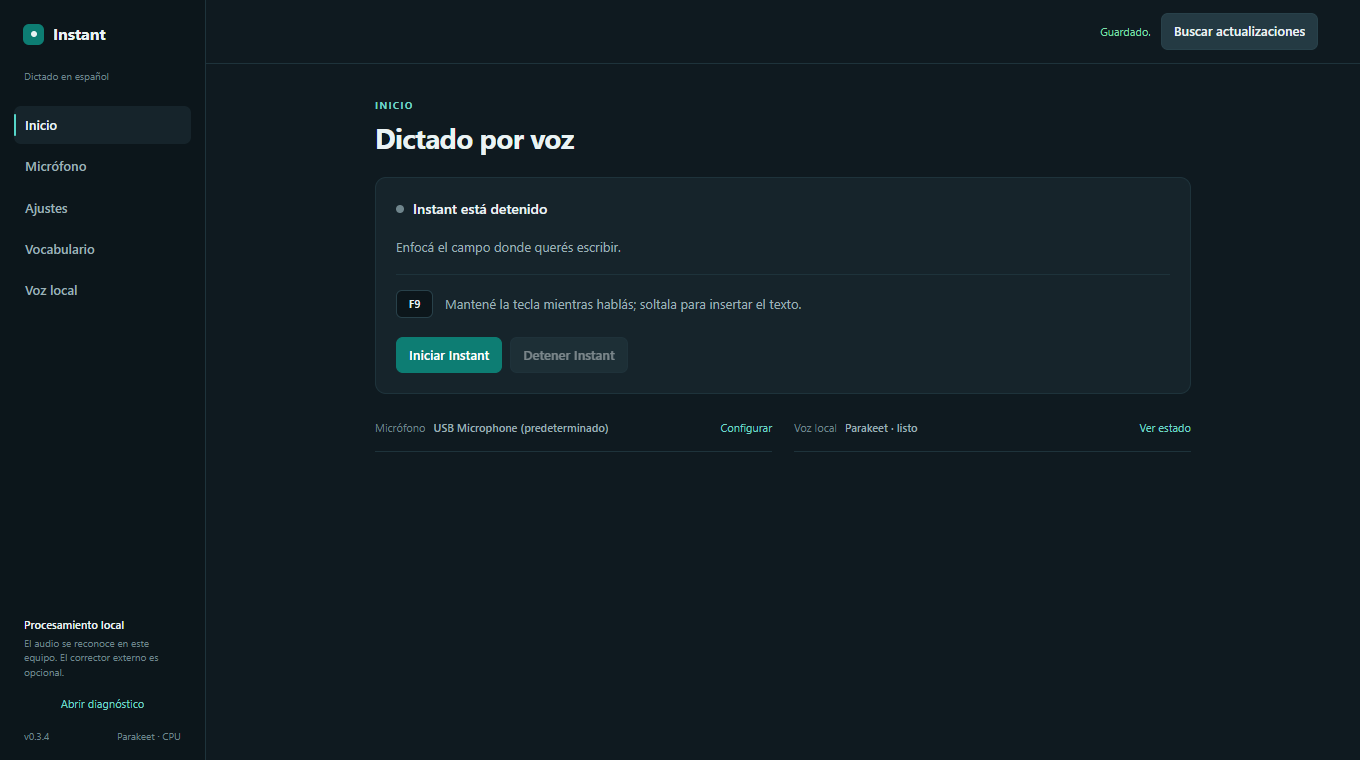
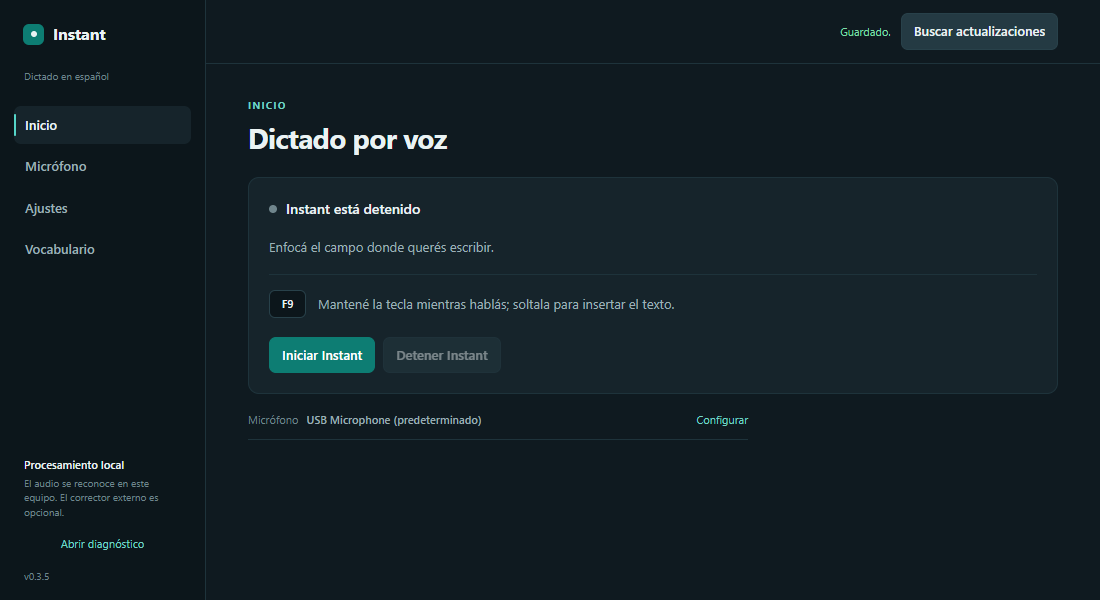
release: compact panel and remove local voice view

diff --git a/dictado/src/instant_app/web/panel.html b/dictado/src/instant_app/web/panel.html
@@ -120,8 +120,8 @@ h3 { margin: 0; font-size: 12px; font-weight: 620; }
 .badge, kbd { display: inline-flex; min-width: 37px; min-height: 28px; align-items: center; justify-content: center; padding: 3px 9px; border: 1px solid var(--line); border-radius: 6px; background: var(--bg-alt); color: var(--text); font: 600 11px/1 system-ui, "Segoe UI", sans-serif; }
 .row { display: flex; align-items: center; gap: 8px; flex-wrap: wrap; }
 .home-actions { padding-top: 2px; }
-.home-summary { display: grid; grid-template-columns: repeat(2, minmax(0, 1fr)); gap: 22px; margin-top: 22px; }
-.summary-item { display: grid; min-width: 0; grid-template-columns: auto minmax(0, 1fr) auto; align-items: center; gap: 8px; padding: 0 0 12px; border-bottom: 1px solid var(--line-soft); }
+.home-summary { display: flex; justify-content: flex-start; margin-top: 14px; }
+.summary-item { display: grid; width: min(100%, 500px); min-width: 0; grid-template-columns: auto minmax(0, 1fr) auto; align-items: center; gap: 8px; padding: 0 0 8px; border-bottom: 1px solid var(--line-soft); }
 .summary-item > span { color: var(--faint); font-size: 11px; }
 .summary-item strong { min-width: 0; overflow: hidden; color: var(--muted); font-size: 11px; font-weight: 550; text-overflow: ellipsis; white-space: nowrap; }
 .btn {
@@ -214,7 +214,8 @@ table.vocab th:nth-child(2) { width: 49%; }
 .icon { min-width: 52px; min-height: 30px; padding: 5px 8px; border: 1px solid var(--line); border-radius: 6px; background: transparent; color: var(--muted); font-size: 10px; cursor: pointer; }
 .icon:hover { border-color: var(--faint); background: var(--surface-high); color: var(--text); }
 .icon:disabled { opacity: .45; cursor: not-allowed; }
-.model-card { display: grid; gap: 17px; }
+.model-setup { display: grid; grid-template-columns: minmax(0, 1fr) auto; align-items: center; gap: 12px; padding: 11px 13px; border: 1px solid var(--line-soft); border-radius: 8px; background: var(--bg-alt); }
+.model-setup-copy { display: grid; min-width: 0; gap: 5px; }
 .model-status { display: flex; align-items: flex-start; gap: 10px; }
 .model-status .dot { margin-top: 6px; }
 .model-status p { margin: 0; color: var(--muted); }
@@ -258,6 +259,8 @@ table.vocab th:nth-child(2) { width: 49%; }
   .topbar-actions { width: 100%; justify-content: flex-start; }
   #settingsStatus { flex: 1 1 100%; }
   .home-summary, .advanced-grid { grid-template-columns: minmax(0, 1fr); gap: 13px; }
+  .model-setup { grid-template-columns: minmax(0, 1fr); }
+  .model-setup > .btn { justify-self: start; }
   .summary-item { grid-template-columns: 76px minmax(0, 1fr) auto; }
   .setting-row { grid-template-columns: minmax(0, 1fr); gap: 9px; }
   .setting-row > :last-child { justify-self: start; }
@@ -285,12 +288,11 @@ table.vocab th:nth-child(2) { width: 49%; }
     <button class="nav-link" data-page="audio" aria-controls="sec-audio">Micr&oacute;fono</button>
     <button class="nav-link" data-page="settings" aria-controls="sec-settings">Ajustes</button>
     <button class="nav-link" data-page="vocab" aria-controls="sec-vocab">Vocabulario</button>
-    <button class="nav-link" data-page="models" aria-controls="sec-models">Voz local</button>
   </nav>
   <div class="sidebar-bottom">
     <div class="privacy-note"><b>Procesamiento local</b><span>El audio se reconoce en este equipo. El corrector externo es opcional.</span></div>
     <button class="link" id="diagBtn">Abrir diagn&oacute;stico</button>
-    <div class="sidebar-meta"><span id="version"></span><span>Parakeet &middot; CPU</span></div>
+    <div class="sidebar-meta"><span id="version"></span></div>
   </div>
 </aside>
 <div class="workspace">
@@ -314,6 +316,17 @@ table.vocab th:nth-child(2) { width: 49%; }
       <div class="panel-block home-panel">
         <div class="status-line" role="status" aria-live="polite"><span class="dot checking" id="statusDot" aria-hidden="true"></span><b id="statusTitle">Comprobando Instant&hellip;</b></div>
         <p class="status-detail" id="statusDetail">Enfoc&aacute; el campo donde quer&eacute;s escribir.</p>
+        <div class="model-setup" id="modelSetup" hidden>
+          <div class="model-setup-copy">
+            <div class="model-status" role="status" aria-live="polite"><span class="dot checking" id="modelDot" aria-hidden="true"></span><p id="modelStatus">Comprobando el reconocimiento&hellip;</p></div>
+            <span class="field-note" id="modelDownloadNote">La descarga inicial ocupa unos 670 MB.</span>
+            <div class="model-progress" id="modelProgWrap" hidden>
+              <div class="meter" role="progressbar" aria-label="Descarga del reconocimiento" aria-valuemin="0" aria-valuemax="100" aria-valuenow="0"><div id="modelProgFill"></div></div>
+              <span class="small" id="modelProgText"></span>
+            </div>
+          </div>
+          <button class="btn primary" id="modelBtn" disabled>Descargar modelo</button>
+        </div>
         <div class="key-instruction"><kbd id="keyBadge">F9</kbd><span>Manten&eacute; la tecla mientras habl&aacute;s; soltala para insertar el texto.</span></div>
         <div class="row home-actions">
           <button class="btn primary" id="runBtn" disabled>Iniciar Instant</button>
@@ -322,7 +335,6 @@ table.vocab th:nth-child(2) { width: 49%; }
       </div>
       <div class="home-summary">
         <div class="summary-item"><span>Micr&oacute;fono</span><strong id="quickMic">Comprobando&hellip;</strong><button class="link" data-page="audio">Configurar</button></div>
-        <div class="summary-item"><span>Voz local</span><strong id="quickModel">Comprobando&hellip;</strong><button class="link" data-page="models">Ver estado</button></div>
       </div>
     </section>
 
@@ -407,21 +419,6 @@ table.vocab th:nth-child(2) { width: 49%; }
       </div>
     </section>
 
-    <section class="page-view" id="sec-models" aria-labelledby="modelTitle" hidden>
-      <header class="page-head">
-        <p class="eyebrow">RECONOCIMIENTO</p>
-        <h1 id="modelTitle" tabindex="-1">Voz local</h1>
-        <p>El reconocimiento funciona en este equipo con el modelo Parakeet y CPU.</p>
-      </header>
-      <div class="panel-block model-card">
-        <div class="model-status" role="status" aria-live="polite"><span class="dot checking" id="modelDot" aria-hidden="true"></span><p id="modelStatus">Comprobando el modelo&hellip;</p></div>
-        <div class="model-progress" id="modelProgWrap" hidden>
-          <div class="meter" role="progressbar" aria-label="Descarga del modelo de voz" aria-valuemin="0" aria-valuemax="100" aria-valuenow="0"><div id="modelProgFill"></div></div>
-          <span class="small" id="modelProgText"></span>
-        </div>
-        <div><button class="btn primary" id="modelBtn" disabled>Descargar voz</button><span class="field-note" id="modelDownloadNote">La primera descarga ocupa unos 670 MB.</span></div>
-      </div>
-    </section>
   </main>
 </div>
 </div>
@@ -469,13 +466,13 @@ const $ = (id) => document.getElementById(id);
 const statusDot = $("statusDot"), statusTitle = $("statusTitle"), statusDetail = $("statusDetail");
 const keyBadge = $("keyBadge"), keyValue = $("keyValue");
 const runBtn = $("runBtn"), stopBtn = $("stopBtn");
-const quickMic = $("quickMic"), quickModel = $("quickModel");
+const quickMic = $("quickMic");
 const micCombo = $("micCombo"), meterWrap = $("meterWrap"), meterFill = $("meterFill"), meterText = $("meterText");
 const autostart = $("autostart"), overlayStyleSelect = $("overlayStyleSelect");
 const threadsSelect = $("threadsSelect"), maxSegmentInput = $("maxSegmentInput");
 const soundCheck = $("soundCheck"), llmUrlInput = $("llmUrlInput");
 const profileCombo = $("profileCombo"), vocabBody = $("vocabBody");
-const modelStatus = $("modelStatus"), modelBtn = $("modelBtn"), modelDownloadNote = $("modelDownloadNote");
+const modelSetup = $("modelSetup"), modelStatus = $("modelStatus"), modelBtn = $("modelBtn"), modelDownloadNote = $("modelDownloadNote");
 const modelProgWrap = $("modelProgWrap"), modelProgFill = $("modelProgFill"), modelProgText = $("modelProgText");
 const modelDot = $("modelDot");
 const saveBtn = $("saveBtn"), settingsStatus = $("settingsStatus");
@@ -489,7 +486,7 @@ const diagModal = $("diagModal"), diagText = $("diagText");
 const profileAddModal = $("profileAddModal"), profileRemoveModal = $("profileRemoveModal");
 const profileNameInput = $("profileNameInput"), profileNameError = $("profileNameError");
 const profileRemoveBtn = $("profileRemove"), profileRemoveCopy = $("profileRemoveCopy");
-const sections = {home: $("sec-home"), audio: $("sec-audio"), settings: $("sec-settings"), vocab: $("sec-vocab"), models: $("sec-models")};
+const sections = {home: $("sec-home"), audio: $("sec-audio"), settings: $("sec-settings"), vocab: $("sec-vocab")};
 
 let bridge = null;
 let currentPage = "home";
@@ -589,7 +586,7 @@ function onState(raw) {
     statusTitle.textContent = s.status.title || defaultTitles[state] || "Estado de Instant";
     let detail = s.status.detail || `Enfocá el campo, mantené ${key} y soltá para dictar.`;
     if (state === "down" && s.model && !s.model.ready)
-      detail = "Descargá la voz local para habilitar el dictado.";
+      detail = "Completá la descarga para habilitar el dictado.";
     else if (state === "down" && s.mic && !s.mic.available)
       detail = "Elegí un micrófono disponible para iniciar Instant.";
     statusDetail.textContent = detail;
@@ -642,13 +639,11 @@ function onState(raw) {
   if (s.model) {
     const m = s.model;
     const downloading = !!(m.progress && m.progress.visible);
-    modelDot.className = `dot ${m.ready ? "ok" : downloading ? "starting" : "down"}`;
-    modelStatus.textContent = m.ready ? "Voz lista en este equipo"
-      : (m.status || "Falta descargar la voz local.");
-    modelStatus.style.color = m.ready ? "var(--text)" : "";
-    modelBtn.hidden = !!m.ready;
+    modelSetup.hidden = !!m.ready;
+    modelDot.className = `dot ${downloading ? "starting" : "down"}`;
+    modelStatus.textContent = m.status || "Falta descargar el modelo de reconocimiento.";
     modelDownloadNote.hidden = !!m.ready;
-    modelBtn.textContent = downloading ? "Descargando…" : (m.button || "Descargar voz");
+    modelBtn.textContent = downloading ? "Descargando…" : (m.button || "Descargar modelo");
     modelBtn.disabled = downloading;
     const p = m.progress || {};
     modelProgWrap.hidden = !p.visible;
@@ -657,7 +652,6 @@ function onState(raw) {
     modelProgWrap.querySelector("[role='progressbar']")
       .setAttribute("aria-valuenow", String(modelPercent));
     modelProgText.textContent = downloading ? (m.status || "Descargando el modelo…") : "";
-    quickModel.textContent = m.ready ? "Parakeet · listo" : "Modelo pendiente";
   }
   if (s.vocab) {
     const v = s.vocab;
@@ -834,7 +828,8 @@ function onProgress(raw) {
   modelProgWrap.querySelector("[role='progressbar']")
     .setAttribute("aria-valuenow", String(percent));
   if (p.text) modelProgText.textContent = p.text;
-  modelBtn.textContent = "Descargando voz…";
+  modelSetup.hidden = false;
+  modelBtn.textContent = "Descargando…";
   modelBtn.disabled = true;
 }
 function onDiagnostics(raw) {

diff --git a/dictado/src/instant_app/qml/panel_web_host.qml b/dictado/src/instant_app/qml/panel_web_host.qml
@@ -10,10 +10,10 @@ import QtWebEngine
 Window {
     id: host
     title: "Instant"
-    width: 1360
-    height: 760
-    minimumWidth: 1000
-    minimumHeight: 640
+    width: 1100
+    height: 600
+    minimumWidth: 900
+    minimumHeight: 520
     visible: false
 
     property url pageUrl

diff --git a/dictado/bench/web_panel_smoke.py b/dictado/bench/web_panel_smoke.py
@@ -9,16 +9,17 @@ import json
 import logging
 import os
 import sys
-import time
 from unittest.mock import patch
 
 HERE = os.path.dirname(os.path.abspath(__file__))
 sys.path.insert(0, os.path.abspath(os.path.join(HERE, "..", "src")))
 
 from PySide6.QtCore import QTimer  # noqa: E402
-from PySide6.QtQuick import QQuickWindow  # noqa: E402,F401  (wrapper de grabWindow)
+from PySide6.QtQuick import QQuickWindow  # noqa: E402
 
 from instant_app import gui  # noqa: E402
+
+assert callable(QQuickWindow.grabWindow)
 
 SMOKE_CONFIG = {
     "mic_hint": "USB Microphone", "mic_index": 5, "key": "f9",
@@ -29,7 +30,7 @@ SMOKE_CONFIG = {
         "term": "Instant", "aliases": ["in stand"], "sonido": True,
     }]},
 }
-PAGES = ("home", "audio", "settings", "vocab", "models")
+PAGES = ("home", "audio", "settings", "vocab")
 
 
 def main():
@@ -41,10 +42,12 @@ def main():
     parser.add_argument("--page", choices=(*PAGES, "all"), default="home")
     parser.add_argument("--mic-state", choices=("available", "empty", "lost"),
                         default="available")
+    parser.add_argument("--model-state", choices=("ready", "missing"),
+                        default="ready")
     parser.add_argument("--daemon-state", choices=("stopped", "active"),
                         default="stopped")
-    parser.add_argument("--width", type=int, default=1360)
-    parser.add_argument("--height", type=int, default=760)
+    parser.add_argument("--width", type=int, default=1100)
+    parser.add_argument("--height", type=int, default=600)
     args = parser.parse_args()
     mic_rows = ([(5, "USB Microphone", 1, 48000)]
                 if args.mic_state != "empty" else [])
@@ -55,7 +58,8 @@ def main():
                side_effect=lambda cfg: "smoke-config.json") as save_cfg, \
             patch("instant_app.gui.config.load", side_effect=lambda: copy.deepcopy(SMOKE_CONFIG)), \
             patch("instant_app.gui.models.check",
-                  return_value={"parakeet": True, "vad": True}), \
+                  return_value={"parakeet": args.model_state == "ready",
+                                "vad": args.model_state == "ready"}), \
             patch("instant_app.gui.audio.input_choices",
                   return_value=mic_rows), \
             patch("instant_app.gui.audio.preferred_input_index",
@@ -142,8 +146,14 @@ def run(args, save_cfg, autostart_enable, autostart_disable):
 
     QTimer.singleShot(int(args.seconds * 1000), capture_requested_page)
 
-    panel.root.setProperty("width", args.width)
-    panel.root.setProperty("height", args.height)
+    if args.width == 1100 and panel.root.property("width") != 1100:
+        raise AssertionError("panel WebEngine: el ancho predeterminado no coincide")
+    if args.height == 600 and panel.root.property("height") != 600:
+        raise AssertionError("panel WebEngine: el alto predeterminado no coincide")
+    if args.width != 1100:
+        panel.root.setProperty("width", args.width)
+    if args.height != 600:
+        panel.root.setProperty("height", args.height)
     panel.show()
     app.exec()
     return 0

diff --git a/dictado/tests/test_panel_page.py b/dictado/tests/test_panel_page.py
@@ -43,7 +43,7 @@ class PanelPageContractTests(unittest.TestCase):
         source = self._source()
         for expected in ("Dictado por voz", "Iniciar Instant", "Detener Instant",
                          "Guardar cambios", "A&ntilde;adir perfil", "Eliminar perfil",
-                         "A&ntilde;adir t&eacute;rmino", "Descargar voz", "Elegir tecla",
+                         "A&ntilde;adir t&eacute;rmino", "Descargar modelo", "Elegir tecla",
                          "Iniciar con el sistema", "Diagnóstico",
                          "Buscar actualizaciones", "La prueba mide el nivel; no guarda audio."):
             self.assertIn(expected, source)
@@ -52,7 +52,7 @@ class PanelPageContractTests(unittest.TestCase):
         source = self._source()
         for expected in ("class=\"side-nav\"", "aria-current=\"page\"",
                          'id="sec-home"', 'id="sec-audio"', 'id="sec-settings"',
-                         'id="sec-vocab"', 'id="sec-models"',
+                         'id="sec-vocab"', 'id="modelSetup"',
                          "section.hidden = name !== page", "updateProgressWrap",
                          "overlayStyleSelect", "threadsSelect", "maxSegmentInput",
                          "soundCheck", "llmUrlInput", "op:\"set_advanced\""):
@@ -61,6 +61,9 @@ class PanelPageContractTests(unittest.TestCase):
         self.assertIn('if (!vocabBody.contains(active) || active.tagName !== "INPUT")', source)
         self.assertIn("micCombo.disabled = !hasDevices", source)
         self.assertIn("option.value === s.mic.unavailable_label", source)
+        self.assertNotIn('data-page="models"', source)
+        self.assertNotIn('id="sec-models"', source)
+        self.assertNotIn("Parakeet", source)
 
     def test_controls_have_explicit_accessible_status_and_error_text(self):
         source = self._source()
@@ -105,6 +108,11 @@ class HostContractTests(unittest.TestCase):
                           "qt.webChannelTransport")
             self.assertIn("registerBridge", source, f"{name}: falta registerBridge")
             self.assertIn('objectName: "view"', source, f"{name}: falta el view")
+            if name == "panel_web_host.qml":
+                self.assertIn("width: 1100", source)
+                self.assertIn("height: 600", source)
+                self.assertIn("minimumWidth: 900", source)
+                self.assertIn("minimumHeight: 520", source)
 
     def test_pages_ship_with_the_package(self):
         self.assertTrue(os.path.isfile(PANEL_PAGE))

diff --git a/dictado/src/instant_app/gui.py b/dictado/src/instant_app/gui.py
@@ -513,7 +513,7 @@ class PanelLogic:
                 "button": ("Reintentar descarga"
                            if not self.model_ready
                            and self.model_status.startswith("No se pudo")
-                           else "Descargar voz"),
+                           else "Descargar modelo"),
             },
             "vocab": {
                 "profiles": list(configured),
@@ -1308,13 +1308,13 @@ class PanelLogic:
             self.model_status = "Voz lista en este equipo."
             self.model_progress = {"visible": False, "percent": 100}
         else:
-            self.model_status = "Falta descargar la voz (~670 MB)."
+            self.model_status = "Falta descargar el modelo."
             self.model_progress = {"visible": False, "percent": 0}
 
     def download_models(self):
         if self.model_ready:
             return
-        self.model_status = "Descargando la voz…"
+        self.model_status = "Descargando el modelo…"
         self.model_progress = {"visible": True, "percent": 0}
         self.push_state()
 
@@ -1328,7 +1328,7 @@ class PanelLogic:
             step, done, total = event
             if not total:
                 return
-            label = "la voz" if step == "parakeet" else "el detector de voz"
+            label = "el modelo" if step == "parakeet" else "el detector de voz"
             self.model_status = (f"Descargando {label}: {done / total:.0%} "
                                  f"({done / 1e6:.0f}/{total / 1e6:.0f} MB)")
             self.model_progress = {"visible": True,
@@ -1346,7 +1346,7 @@ class PanelLogic:
             if self._closed:
                 return
             self.model_progress = {"visible": False, "percent": 0}
-            self.model_status = "No se pudo descargar la voz."
+            self.model_status = "No se pudo descargar el modelo."
             self.push_state()
             self.toast("Descarga fallida", str(error), level="error")
 
@@ -1722,7 +1722,7 @@ class PanelLogic:
     # ------------------------------------------------------------- navegación
 
     def navigate(self, name):
-        pages = {"home", "audio", "settings", "vocab", "models"}
+        pages = {"home", "audio", "settings", "vocab"}
         self.page = name if isinstance(name, str) and name in pages else "home"
         self.emit("navigate", {"page": self.page})
 

diff --git a/dictado/tests/test_gui_lifecycle.py b/dictado/tests/test_gui_lifecycle.py
@@ -91,6 +91,13 @@ def make_logic(emitted=None, tasks=None, schedule=None, **kwargs):
 
 
 class PanelLifecycleTests(unittest.TestCase):
+    def test_removed_models_page_falls_back_to_home(self):
+        logic, emitted = make_logic()
+        logic.page = "settings"
+        logic.navigate("models")
+        self.assertEqual(logic.page, "home")
+        self.assertIn(("navigate", {"page": "home"}), emitted)
+
     def test_home_status_explains_where_to_dictate_for_both_daemon_states(self):
         for running in (False, True):
             with self.subTest(running=running):

diff --git a/dictado/src/instant_app/__init__.py b/dictado/src/instant_app/__init__.py
@@ -1,2 +1,2 @@
 """Instant: hold-to-talk ES offline (Parakeet v3 + Silero VAD, CPU-only)."""
-__version__ = "0.3.4"
+__version__ = "0.3.5"

diff --git a/CHANGELOG.md b/CHANGELOG.md
@@ -5,6 +5,21 @@ El proyecto usa [versionado semántico](https://semver.org/lang/es/).
 
 ## [Sin publicar]
 
+## [0.3.5] - 2026-10-09
+
+### Mejorado
+
+- La ventana del panel abre en 1100 × 600 y permite reducirse hasta 900 × 520.
+- Se quita la sección independiente Voz local. La descarga inicial del modelo
+  aparece como un bloque compacto en Inicio y desaparece al quedar listo.
+- Se elimina la mención técnica a Parakeet y CPU de la navegación del panel.
+- Se actualiza la captura de la portada de GitHub con este diseño compacto.
+
+### Verificado
+
+- Pruebas de navegación para la sección retirada y el acceso a la descarga.
+- Smoke visual de las cuatro secciones con el tamaño de ventana predeterminado.
+
 ## [0.3.4] - 2026-10-09
 
 ### Mejorado
